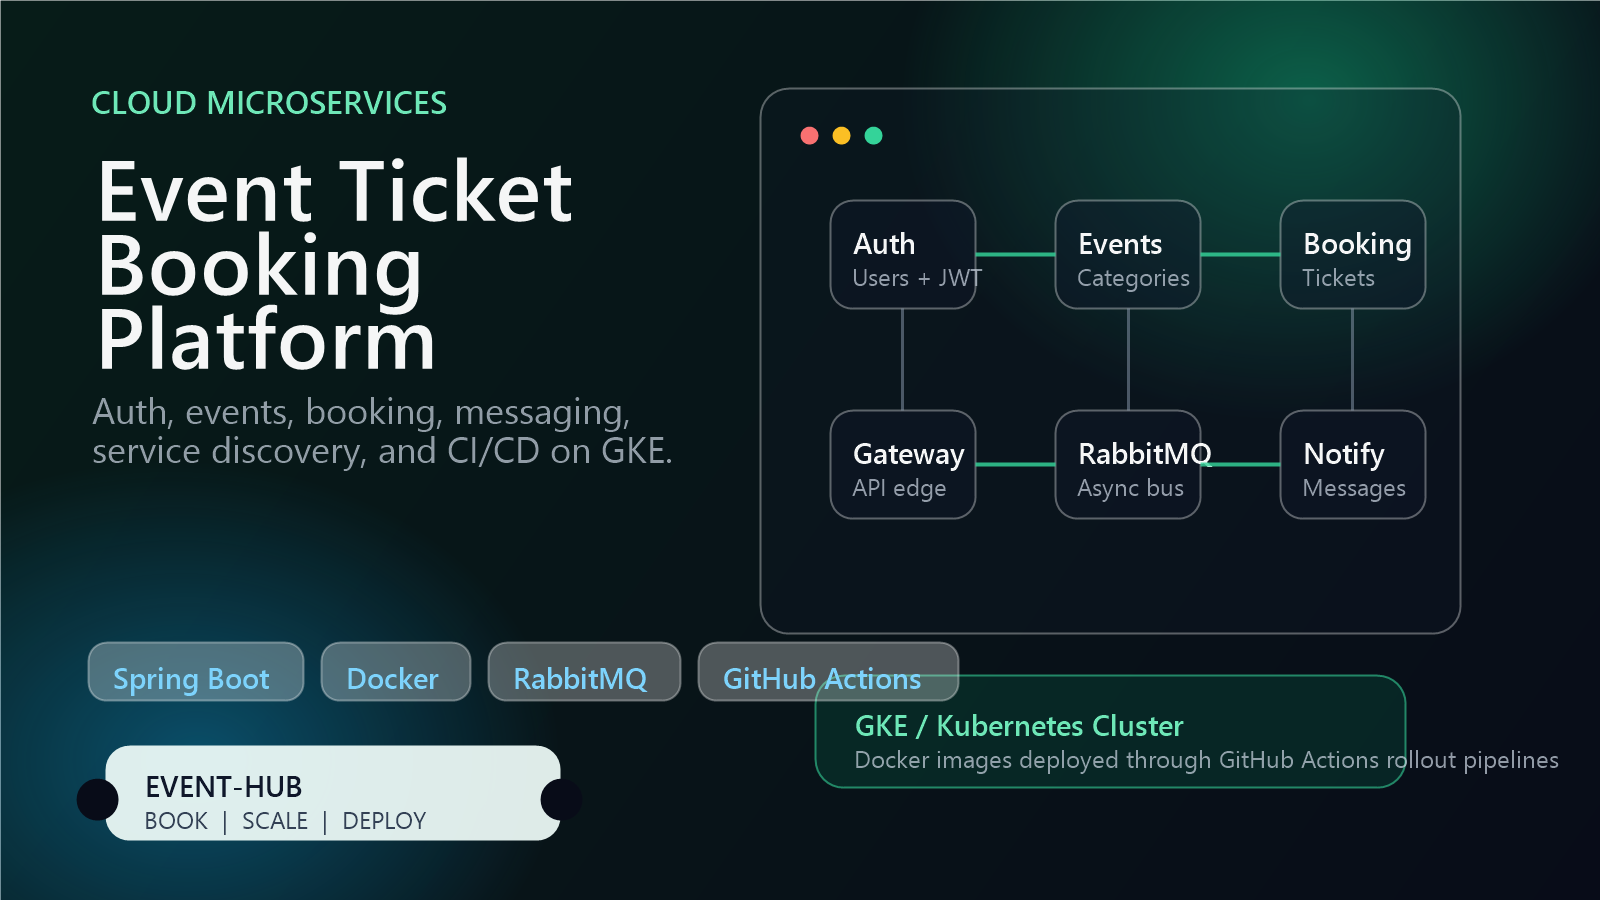
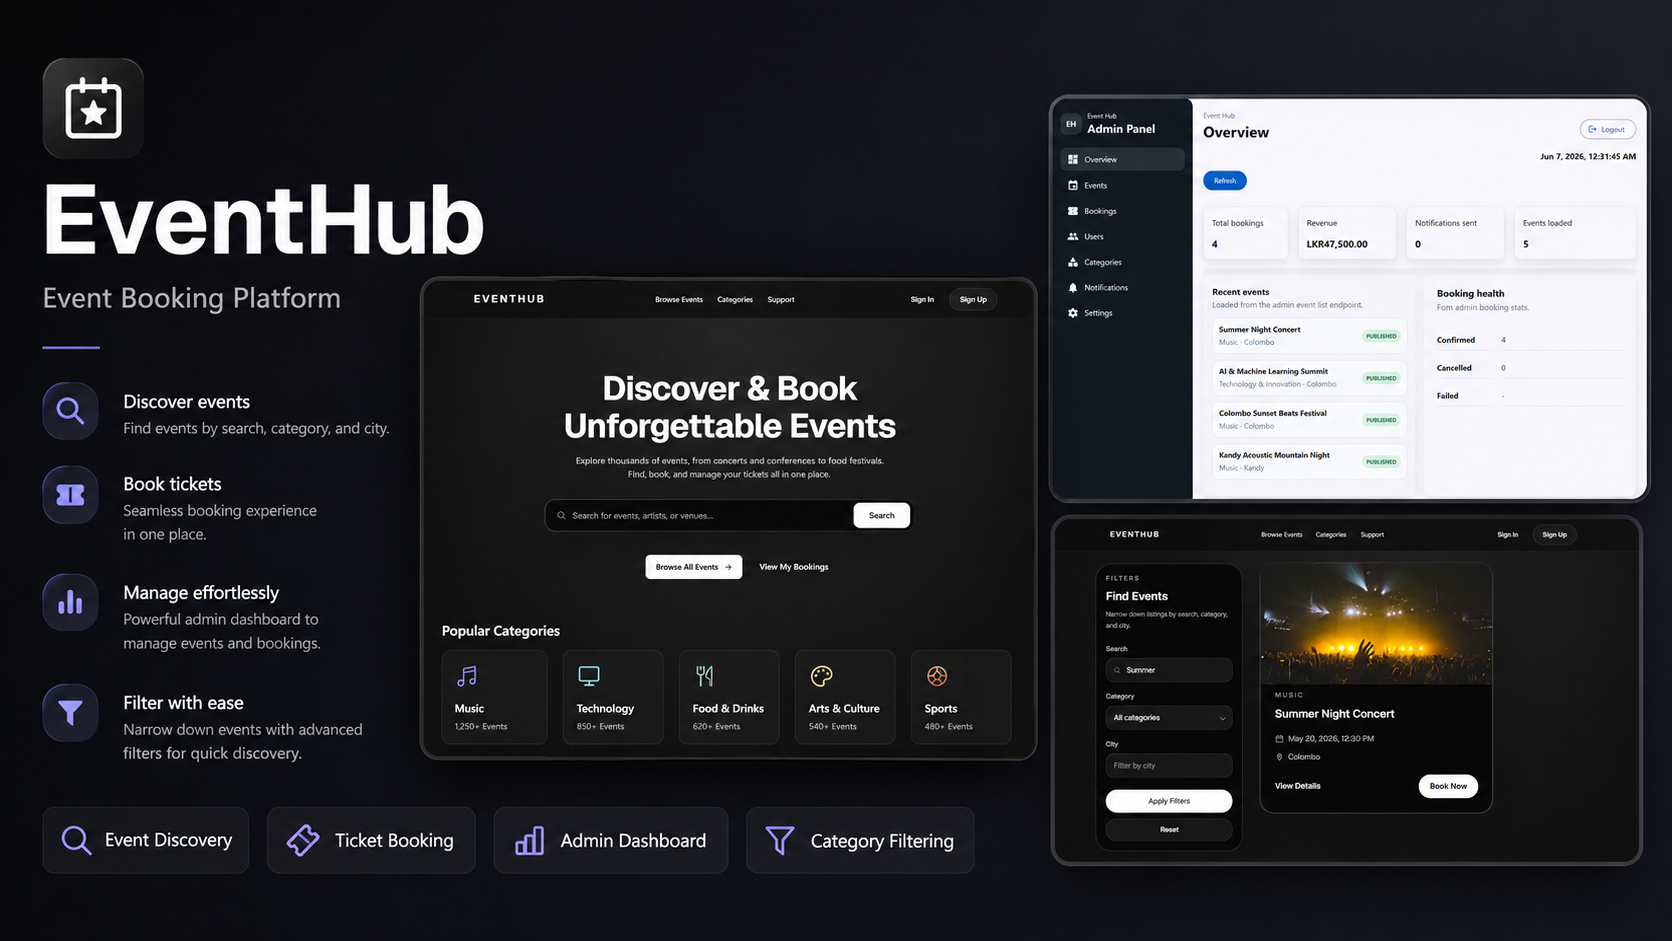
Update event project technology stack

diff --git a/src/data/profile.ts b/src/data/profile.ts
@@ -190,7 +190,22 @@ export const projects: Project[] = [
       "A cloud-based event management and ticket booking platform built with independently deployable services, asynchronous messaging, and Kubernetes deployment workflows.",
     description:
       "This project applies microservices architecture to a complete event booking domain. Separate services handle authentication, event management, booking, notifications, gateway routing, service discovery, and configuration, while RabbitMQ supports asynchronous communication and Kubernetes on GKE provides scalable cloud deployment.",
-    stack: ["Spring Boot", "Java", "TypeScript", "RabbitMQ", "Docker", "Kubernetes", "GCP", "GitHub Actions"],
+    stack: [
+      "Spring Boot",
+      "Java",
+      "TypeScript",
+      "RabbitMQ",
+      "Docker",
+      "Kubernetes",
+      "GCP",
+      "GitHub Actions",
+      "Next.js",
+      "MongoDB",
+      "MySQL",
+      "Express.js",
+      "Angular",
+      "Keycloak",
+    ],
     features: [
       "User authentication, registration, avatar, and password recovery workflows",
       "Event creation, category management, and booking-oriented service boundaries",

diff --git a/src/utils/techLogos.ts b/src/utils/techLogos.ts
@@ -6,6 +6,7 @@ export const techLogoMap = {
   "Tailwind CSS": `${devicon}/tailwindcss/tailwindcss-original.svg`,
   Bootstrap: `${devicon}/bootstrap/bootstrap-original.svg`,
   React: `${devicon}/react/react-original.svg`,
+  "Next.js": `${devicon}/nextjs/nextjs-original.svg`,
   Angular: `${devicon}/angularjs/angularjs-original.svg`,
   JavaScript: `${devicon}/javascript/javascript-original.svg`,
   TypeScript: `${devicon}/typescript/typescript-original.svg`,
@@ -25,6 +26,7 @@ export const techLogoMap = {
   GCP: `${devicon}/googlecloud/googlecloud-original.svg`,
   Jenkins: `${devicon}/jenkins/jenkins-original.svg`,
   "GitHub Actions": `${devicon}/githubactions/githubactions-original.svg`,
+  Keycloak: "https://cdn.simpleicons.org/keycloak/4D4D4D",
   AWS: `${devicon}/amazonwebservices/amazonwebservices-original-wordmark.svg`,
   Linux: `${devicon}/linux/linux-original.svg`,
   Nginx: `${devicon}/nginx/nginx-original.svg`,